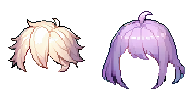
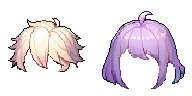
update hair

diff --git a/client/src/components/gameComponent/scenes/testScene.js b/client/src/components/gameComponent/scenes/testScene.js
@@ -26,6 +26,11 @@ export default class TestScene extends Phaser.Scene {
         frameWidth: 96,
         frameHeight: 96
       });
+
+      this.load.spritesheet('hair_back', 'assets/custom/hair_back.png', {
+        frameWidth: 96,
+        frameHeight: 96
+      });
   }
  
 
@@ -83,13 +88,16 @@ export default class TestScene extends Phaser.Scene {
 
     this.borderGraphics = this.add.graphics();
     // 跟踪当前选中的颜色
+    this.hair_back = this.add.sprite(300, 350, 'hair_back',0).setScale(4).setPipeline('Alpha');
 
     const face = this.add.sprite(300, 380, 'face', 0).setScale(4).setPipeline('Alpha');
     this.createArrowButtons(this, 300, 430, 'face', face);
-    const hair = this.add.sprite(300, 350, 'hair',0).setScale(4).setPipeline('Alpha');
-    this.createArrowButtons(this, 300, 310, 'hair', hair);
+    
     const body = this.add.sprite(300, 570, 'body', 0).setScale(4).setPipeline('Alpha');
     this.createArrowButtons(this, 300, 620, 'body', body);
+
+    const hair = this.add.sprite(300, 350, 'hair',0).setScale(4).setPipeline('Alpha');
+    this.createArrowButtons(this, 300, 310, 'hair', hair);
 // 创建随机选择按钮
 const randomButton = this.add.text(200, 800, 'Random!', { fontSize: '50px', fontStyle:'Bold',fill: '#fff' })
 .setInteractive()
@@ -143,17 +151,34 @@ const randomButton = this.add.text(200, 800, 'Random!', { fontSize: '50px', font
             const totalFrames = partData.sprite.texture.frameTotal;
             const randomFrame = Phaser.Math.Between(0, totalFrames - 2);
             partData.sprite.setFrame(randomFrame);
+            if (part === 'hair') {
+                this.hair_back.setFrame(randomFrame);
+            }
+    
 
             const colors = colorGroups[part];
-        const colorIndex = Phaser.Math.Between(0, colors.length - 1);
-        const randomColor = colors[colorIndex];
-        const selectedColor = Phaser.Display.Color.IntegerToColor(randomColor);
+        const colorIndex = Phaser.Math.Between(0, colors.length);
+        if(colorIndex==colors.length){
+            this.resetColor(part);
+        }
+        else{
+            const randomColor = colors[colorIndex];
+            const selectedColor = Phaser.Display.Color.IntegerToColor(randomColor);
 
-        partData.sprite.setPipeline('Custom');
-        partData.sprite.pipelineData = { targetHue: new Phaser.Math.Vector3(selectedColor._h, selectedColor._s, selectedColor._v) };
+            partData.sprite.setPipeline('Custom');
+            partData.sprite.pipelineData = { targetHue: new Phaser.Math.Vector3(selectedColor._h, selectedColor._s, selectedColor._v) };
+            
+            if (part === 'hair' && this.hair_back) {
+                this.hair_back.setPipeline('Custom');
+                this.hair_back.pipelineData = { targetHue: new Phaser.Math.Vector3(selectedColor._h, selectedColor._s, selectedColor._v) };
+            }
 
-        // 更新选中的颜色块
-        partData.colorSprite = this.colorBlocks[part][colorIndex];
+            // 更新选中的颜色块
+            partData.colorSprite = this.colorBlocks[part][colorIndex];
+        }
+        
+
+       
     });
 
     // 更新描边
@@ -183,6 +208,7 @@ const randomButton = this.add.text(200, 800, 'Random!', { fontSize: '50px', font
     // 增加箭头距离精灵中心的水平偏移量
     const arrowOffset = 220;
     const arrowSize = 30;
+    const hitboxSize = 50;
 
     // 创建左箭头
     const leftArrow = scene.add.graphics({ fillStyle: { color: 0x000000 } });
@@ -192,7 +218,8 @@ const randomButton = this.add.text(200, 800, 'Random!', { fontSize: '50px', font
     leftArrow.lineTo(x - arrowOffset + arrowSize, y + arrowSize);
     leftArrow.closePath();
     leftArrow.fillPath();
-    leftArrow.setInteractive(new Phaser.Geom.Polygon([x - arrowOffset + 20, y - 10, x - arrowOffset, y, x - arrowOffset + 20, y + 10]), Phaser.Geom.Polygon.Contains);
+    const leftHitbox = new Phaser.Geom.Rectangle(x - arrowOffset - hitboxSize / 2, y - hitboxSize / 2, hitboxSize, hitboxSize);
+    leftArrow.setInteractive(leftHitbox, Phaser.Geom.Rectangle.Contains);
 
     // 创建右箭头
     const rightArrow = scene.add.graphics({ fillStyle: { color: 0x000000 } });
@@ -202,8 +229,8 @@ const randomButton = this.add.text(200, 800, 'Random!', { fontSize: '50px', font
     rightArrow.lineTo(x + arrowOffset - arrowSize, y + arrowSize);
     rightArrow.closePath();
     rightArrow.fillPath();
-    rightArrow.setInteractive(new Phaser.Geom.Polygon([x + arrowOffset - 20, y - 10, x + arrowOffset, y, x + arrowOffset - 20, y + 10]), Phaser.Geom.Polygon.Contains);
-
+    const rightHitbox = new Phaser.Geom.Rectangle(x + arrowOffset - hitboxSize / 2, y - hitboxSize / 2, hitboxSize, hitboxSize);
+    rightArrow.setInteractive(rightHitbox, Phaser.Geom.Rectangle.Contains);
     // 为左箭头添加点击事件
     leftArrow.on('pointerdown', () => this.changeSpriteFrame(sprite, key, -1));
 
@@ -219,6 +246,11 @@ selectColor(part, color, colorSprite) {
         const selectedColor = Phaser.Display.Color.IntegerToColor(color);
         sprite.pipelineData = { targetHue: new Phaser.Math.Vector3(selectedColor._h, selectedColor._s, selectedColor._v) };
 
+
+        if (part === 'hair' && this.hair_back) {
+            this.hair_back.setPipeline('Custom');
+            this.hair_back.pipelineData = { targetHue: new Phaser.Math.Vector3(selectedColor._h, selectedColor._s, selectedColor._v) };
+        }
         // 更新选中的颜色块
         this.selectedColors[part].colorSprite = colorSprite;
 
@@ -231,6 +263,10 @@ resetColor(part) {
     const partData = this.selectedColors[part];
     if (partData.sprite) {
         partData.sprite.setPipeline('Alpha');
+
+        if (part === 'hair' && this.hair_back) {
+            this.hair_back.setPipeline('Alpha');
+        }
 
         // 将选中的颜色块设置为 null，表示没有颜色被选中
         partData.colorSprite = null;
@@ -264,6 +300,12 @@ updateBorder() {
     const totalFrames = sprite.texture.frameTotal;
     let newFrame = Phaser.Math.Wrap(sprite.frame.name + change, 0, totalFrames-1);
     sprite.setFrame(newFrame);
+
+    // 检查是否正在更改 "hair" 图层的帧
+    if (key === 'hair') {
+        // 如果是，确保 "hair_back" 图层的帧索引与 "hair" 相同
+        this.hair_back.setFrame(newFrame);
+    }
 }
 
   update() {
